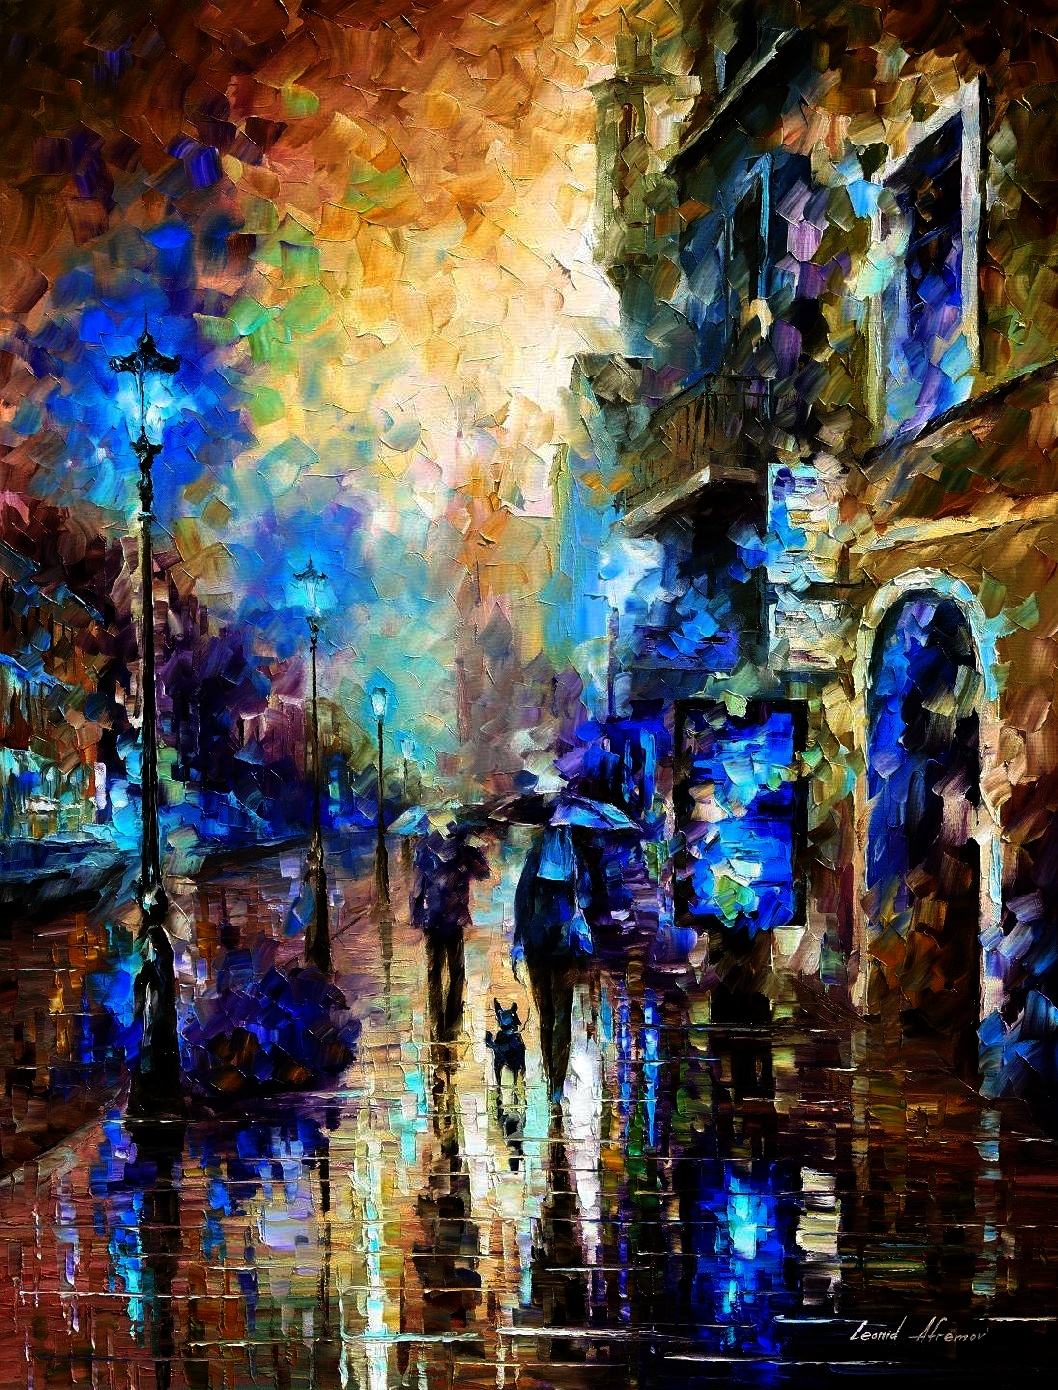
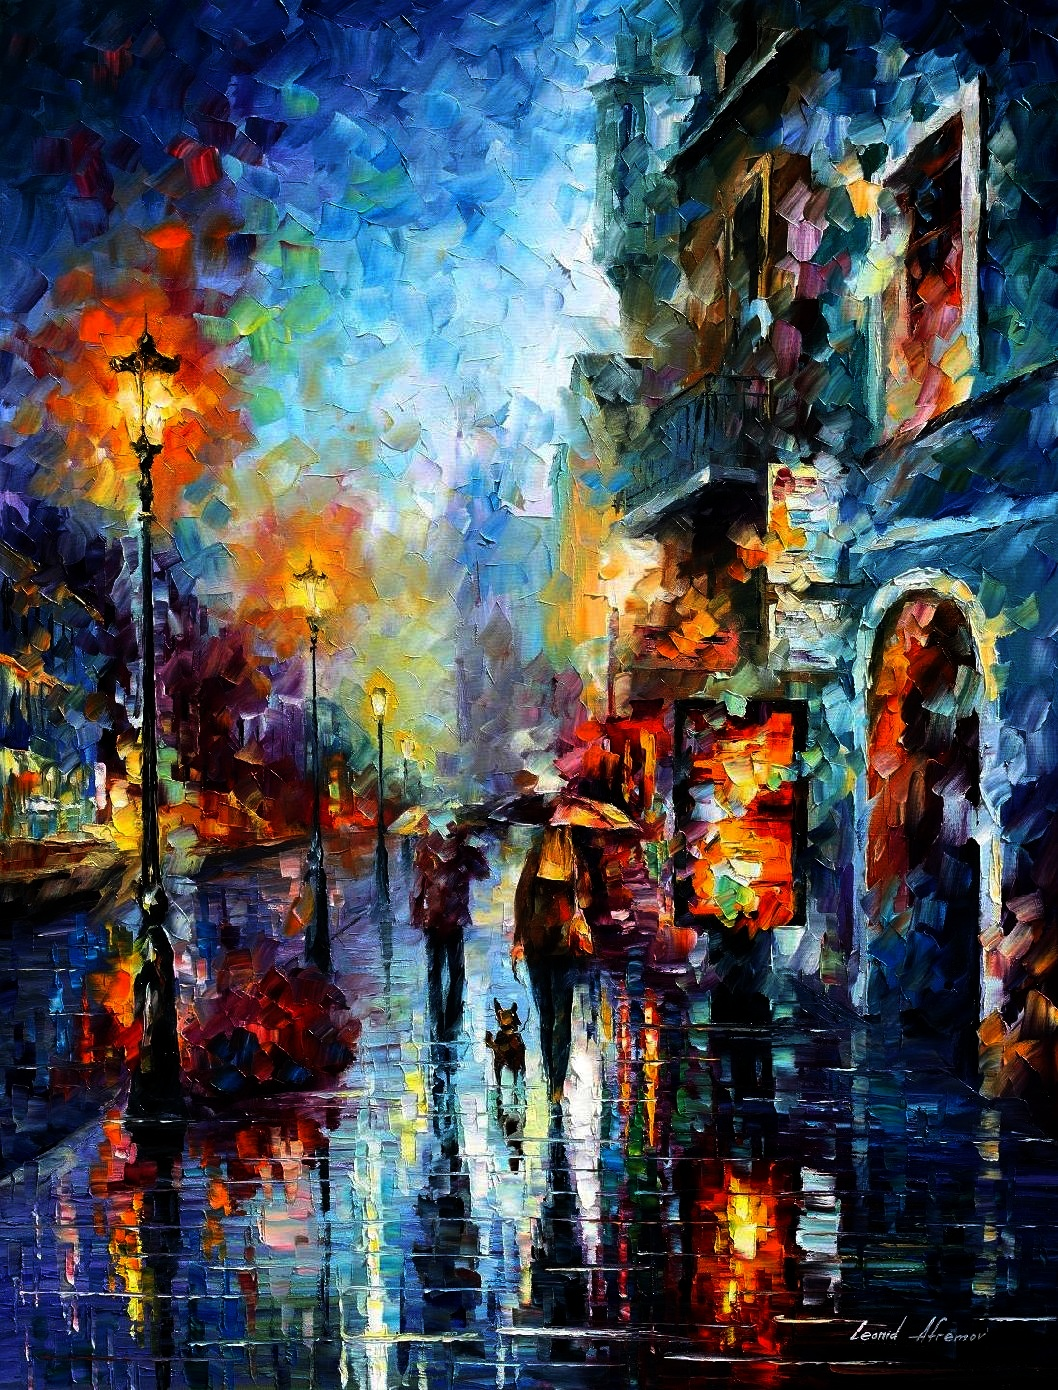
Imagenes Actualizadas

diff --git a/laboratorio_4/main.cpp b/laboratorio_4/main.cpp
@@ -78,7 +78,9 @@ int main(int argc, char **argv) {
 
         cv::Mat output(numRows(), numCols(), CV_8UC4, (void*)h_outputImage);
 
-        cv::imwrite(output_file.c_str(), output);
+        cv::Mat MatOutput;
+        cv::cvtColor(output, MatOutput, cv::COLOR_RGBA2BGR );
+        cv::imwrite(output_file.c_str(), MatOutput);
 
         /* Libera memoria */
         cudaFree(d_rgbaImage__);
@@ -146,7 +148,9 @@ int main(int argc, char **argv) {
           // cvWaitKey (0);
           // cvDestroyWindow ("to_bw");
           // Guardar a fichero
-          cv::imwrite(output_file.c_str(), output);
+          cv::Mat MatOutput;
+          cv::cvtColor(output, MatOutput, cv::COLOR_RGBA2BGR );
+          cv::imwrite(output_file.c_str(), MatOutput);
 
           /* Libera memoria */
           cudaFree(d_rgbaImage__);
@@ -255,7 +259,9 @@ int main(int argc, char **argv) {
 
           cv::Mat output(numRows(), numCols(), CV_8UC4, (void*)h_outputImage);
 
-          cv::imwrite(output_file.c_str(), output);
+          cv::Mat MatOutput;
+          cv::cvtColor(output, MatOutput, cv::COLOR_RGBA2BGR );
+          cv::imwrite(output_file.c_str(), MatOutput);
 
           /* Libera memoria */
           cudaFree(d_rgbaImage__);
